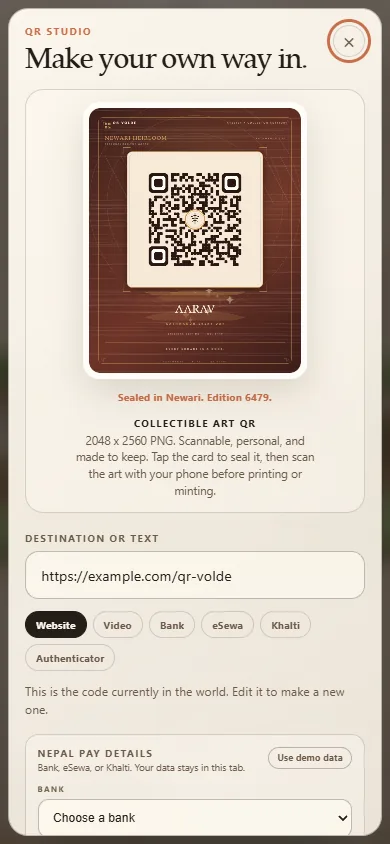
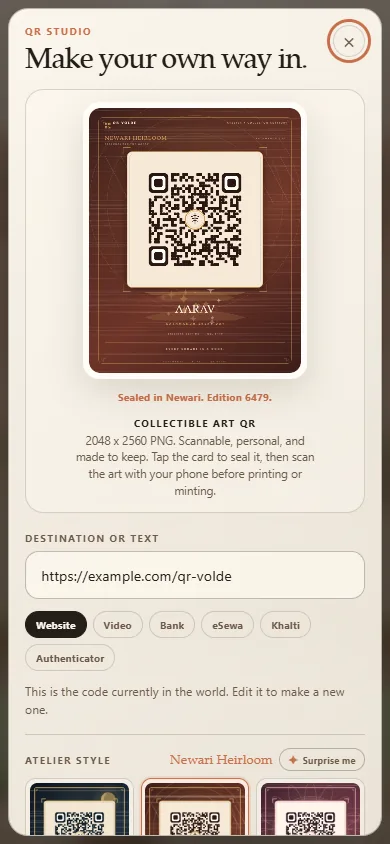
v0.5.2: Payment details on demand

diff --git a/world.js b/world.js
@@ -157,6 +157,7 @@ const qrStageHint = document.getElementById('qr-stage-hint');
 const qrShuffleButton = document.getElementById('qr-shuffle');
 const payBankFields = document.getElementById('nepal-pay-bank');
 const payWalletFields = document.getElementById('nepal-pay-wallet');
+const paySection = document.querySelector('.studio__pay');
 const payBankCode = document.getElementById('nepal-bank-code');
 const payAccountNumber = document.getElementById('nepal-account-number');
 const payAccountName = document.getElementById('nepal-account-name');
@@ -466,13 +467,18 @@ function shuffleArt() {
 }
 
 function setPresetState(value, presetId = null) {
+  let activePreset = null;
   for (const button of presetButtons) {
     const preset = PRESETS[button.dataset.preset];
     const active = presetId
       ? button.dataset.preset === presetId
       : preset?.value === value;
+    if (active) activePreset = button.dataset.preset;
     button.classList.toggle('is-active', active);
     button.setAttribute('aria-pressed', String(active));
+  }
+  if (paySection) {
+    paySection.hidden = !['bank', 'esewa', 'khalti'].includes(activePreset);
   }
 }
 

diff --git a/index.html b/index.html
@@ -102,7 +102,7 @@
           </div>
           <p class="studio__note" id="qr-note">A demo link. Works for websites, Google Sites, and any URL.</p>
 
-          <section class="studio__pay" aria-labelledby="nepal-pay-label">
+          <section class="studio__pay" aria-labelledby="nepal-pay-label" hidden>
             <div class="studio__pay-head">
               <div>
                 <span class="studio__label" id="nepal-pay-label">Nepal Pay details</span>

diff --git a/styles.css b/styles.css
@@ -896,6 +896,10 @@ body.no-webgl .qv__progress {
   background: color-mix(in srgb, var(--qv-panel-strong) 38%, transparent);
 }
 
+.studio__pay[hidden] {
+  display: none;
+}
+
 .studio__pay-head {
   display: flex;
   align-items: flex-start;

diff --git a/README.md b/README.md
@@ -2,7 +2,7 @@
 
 **A giant 3D QR code that unfolds into a living Nepalese courtyard.**
 
-[Live demo](https://harmless-beep.github.io/qr-volde/) · [Release v0.5.1](https://github.com/harmless-beep/qr-volde/releases/tag/v0.5.1) · [Research notes](./RESEARCH.md) · [Changelog](./CHANGELOG.md)
+[Live demo](https://harmless-beep.github.io/qr-volde/) · [Release v0.5.2](https://github.com/harmless-beep/qr-volde/releases/tag/v0.5.2) · [Research notes](./RESEARCH.md) · [Changelog](./CHANGELOG.md)
 
 [![QR Volde launch film — animated preview](launch-film/launch-film.gif)](https://harmless-beep.github.io/qr-volde/launch.html)
 
@@ -12,7 +12,7 @@ QR Volde is a scroll-driven 3D web experience. A dark-square QR monolith faces y
 
 The 3D code is the artwork. **QR Studio** turns the flat code into a collectible, scan-tested art card, or a plain fallback QR when a printer needs the simplest possible mark. The **Nepal Pay** builder creates clearly labelled demo codes for a bank account, eSewa, or Khalti from details you type in yourself.
 
-**Status:** v0.5.1 Atlas in reach, published 2026-11-07.  
+**Status:** v0.5.2 Payment details on demand, published 2026-11-07.  
 **Built with:** Three.js r186 · `qrcode-generator` 2.0.4 · vanilla ES modules · Canvas 2D · GitHub Pages.  
 **No build step, no backend, no analytics, no paid APIs.**
 
@@ -55,8 +55,8 @@ The film loops above. It is made from real captures of the scroll experience and
 
 | The Studio | QR Studio |
 |:--:|:--:|
-| ![The final city view with the Create your QR call to action](docs/screenshots/studio-desktop.webp) | ![The QR Studio dialog with six QR mechanisms, the Nepal Pay details, a collectible art QR preview, and seven Atelier style samples](docs/screenshots/qr-studio.webp) |
-| *Make your own way in.* | *The flat code becomes a collectible object. Six mechanisms sit above the Nepal Pay details and Atelier styles.* |
+| ![The final city view with the Create your QR call to action](docs/screenshots/studio-desktop.webp) | ![The QR Studio dialog with six QR mechanisms, a collectible art QR preview, and seven Atelier style samples](docs/screenshots/qr-studio.webp) |
+| *Make your own way in.* | *The flat code becomes a collectible object. Payment details appear only when Bank, eSewa, or Khalti is active.* |
 
 ### Living Atelier preview
 
@@ -151,7 +151,7 @@ Scroll progress is weighted by scene, so the QR reveal and the city reveal each 
 - **Download art PNG** exports a **2048 x 2560** collectible card with a gallery plinth, deterministic edition number, and a four-module quiet zone.
 - **Download plain QR fallback** exports a **1024 x 1024** high-contrast code.
 - **Use in world** updates the 3D matrix and the QR ground pattern.
-- **Nepal Pay details**: Bank, eSewa, and Khalti mechanisms, a grouped bank list, account or wallet fields, a live payload-length counter, and a demo-data button. See [Nepal Pay](#nepal-pay).
+- **Nepal Pay details** (shown only when **Bank**, **eSewa**, or **Khalti** is active): a grouped bank list, account or wallet fields, a live payload-length counter, and a demo-data button. See [Nepal Pay](#nepal-pay).
 - Error correction: **H (30%)**. The same matrix drives the 3D wall, the ground texture, the art card, and the plain fallback.
 - UTF-8 / Devanagari input supported.
 - Maximum input: 160 characters, so the 3D code stays readable.
@@ -170,6 +170,7 @@ The Studio includes a small **Nepal Pay** builder for personal bank and wallet c
 | **Khalti** | `{"Khalti_ID":"10 digits","name":"NAME"}` | 10-digit mobile number, wallet name |
 
 - The bank list is grouped into **commercial** and **development** banks. Codes are reference data for the demo; confirm the exact code with your bank before printing.
+- The details panel is only shown while **Bank**, **eSewa**, or **Khalti** is active. **Website**, **Video**, and **Authenticator** keep it hidden.
 - The counter shows the live payload length. All demo payloads fit comfortably under the **160-character** Studio limit: bank 84, eSewa 44, Khalti 45.
 - **Use demo data** fills a clearly fake account and name, then builds the code. No real account, phone number, or merchant payload is bundled.
 - When a Nepal Pay payload is reopened in the Studio, the matching mechanism button activates and its fields are restored.
@@ -301,7 +302,7 @@ Opening `index.html` directly with `file://` will not work because the app uses 
 - Mithila mode: `chowk` and `chowk-road` hide while `mithila` shows its 35 scene groups, switching back restores the chowk, the mode survives reload, and section-3 copy and rail label reset when another mode is chosen.
 - Mithila Festival props: the toran plaque renders **स्वागतम्**, the peacock, dancers, crops, and parakeets animate, and reduced motion leaves all five props in their build poses. The paddy sits on the front-left grass, clear of the QR plaza and the front steps.
 - Nepal mode: the atlas plate and six landmarks render at 1440, 390, and 320 widths; the plate sits over the QR plaza's far edge and the landmarks are visible by section 2; `chowk`, `chowk-road`, and `mithila` hide while `nepal` shows; switching among all five modes restores the right group each time; section-2 and section-3 copy and the rail label follow the mode. No console errors.
-- Nepal Pay: 22 banks in two optgroups plus a placeholder; the mechanism row exposes **Bank**, **eSewa**, and **Khalti** with `aria-pressed`; selecting one focuses the matching field without changing the current QR; demo payloads build as bank 84, eSewa 44, and Khalti 45 characters; an invalid wallet number shows an inline error; **Use in world** updates the QR; reopening Studio activates the matching mechanism and restores its fields; only `qrvolde-mode` and `qrvolde-art` are stored.
+- Nepal Pay: 22 banks in two optgroups plus a placeholder; the mechanism row exposes **Bank**, **eSewa**, and **Khalti** with `aria-pressed`; selecting one focuses the matching field without changing the current QR; the payment details are hidden for Website, Video, and Authenticator and shown for payment mechanisms; demo payloads build as bank 84, eSewa 44, and Khalti 45 characters; an invalid wallet number shows an inline error; **Use in world** updates the QR; reopening Studio activates the matching mechanism and restores its fields; only `qrvolde-mode` and `qrvolde-art` are stored.
 - Interaction QA: pointer dust and glow render outside the QR panel, the QR exclusion rectangle contains **zero overlay pixels**, tilt resets on pointer leave, keyboard **Enter** and **Space** both seal, touch tap seals, the hint cycles, and **Surprise me** kept Custom active 23 of 36 tries while producing 13 distinct palette/motif combinations.
 - The export canvas was byte-for-byte identical before and after pointer movement and sealing.
 - All six sample styles plus custom variants decoded with jsQR at **2048 x 2560** and **640 x 800**; the plain **1024 x 1024** fallback also decoded.
@@ -346,6 +347,7 @@ GitHub Pages serves the repository root from the `main` branch.
 - **v0.4.2** — Mithila Festival: toran gateway, displaying peacock, jhijhiya dancers, paddy field, and parakeet flock. **Published.**
 - **v0.5.0** — Nepal Atlas: raised map plate, six landmark vignettes, a third camera flight, and the Bank/eSewa/Khalti Nepal Pay builder. **Published.**
 - **v0.5.1** — Atlas in reach: the Nepal plate moves over the QR's far edge, the camera moves closer and lower, and Bank, eSewa, and Khalti become top-level QR mechanisms. **Published.**
+- **v0.5.2** — Payment details on demand: Nepal Pay details appear only for Bank, eSewa, and Khalti. **Published.**
 - **v0.6** — Districts: more switchable neighbourhoods, landmarks, and cultural layers.
 - **v0.7** — Launch: final brand copy, CTA destination, verified payment guidance.
 - **v1.0** — Stable release.

diff --git a/RESEARCH.md b/RESEARCH.md
@@ -1,10 +1,10 @@
 # Research Notes
 
 **Project:** QR Volde  
-**Version:** v0.5.1  
+**Version:** v0.5.2  
 **Research date:** 2026-10-27; updated 2026-11-07
 
-This document records the references and decisions behind the v0.1 vertical slice, the v0.2 QR Atelier, the v0.3 Living Atelier, the v0.4 Mithila Courtyard, the v0.4.2 Mithila Festival, the v0.5.0 Nepal Atlas, and the v0.5.1 Atlas in reach update with its top-level Bank, eSewa, and Khalti mechanisms. The goal is recognition, not reconstruction. All geometry, textures, signs, characters, and Atelier motifs are original procedural work; no photos, maps, stock models, third-party visual assets, or AI-generated images were copied into the project.
+This document records the references and decisions behind the v0.1 vertical slice, the v0.2 QR Atelier, the v0.3 Living Atelier, the v0.4 Mithila Courtyard, the v0.4.2 Mithila Festival, the v0.5.0 Nepal Atlas, the v0.5.1 Atlas in reach update, and the v0.5.2 conditional Nepal Pay panel. The goal is recognition, not reconstruction. All geometry, textures, signs, characters, and Atelier motifs are original procedural work; no photos, maps, stock models, third-party visual assets, or AI-generated images were copied into the project.
 
 ## 1. Kathmandu Valley and Newar architecture
 
@@ -68,6 +68,7 @@ This document records the references and decisions behind the v0.1 vertical slic
 
 - No real bank, merchant, or wallet payload is bundled or shown as a preset.
 - The v0.5.1 Studio exposes **Bank**, **eSewa**, and **Khalti** as top-level mechanisms beside Website, Video, and Authenticator. Selecting one focuses the matching details and leaves the current QR untouched until **Build payment code** is pressed.
+- v0.5.2 shows the Nepal Pay details only while a payment mechanism is active. Website, Video, and Authenticator hide the panel entirely.
 - v0.5 adds a **Nepal Pay** builder for personal Bank, eSewa, and Khalti codes. It uses only details the user types in, labels the result as a demo, and points to section 9 for the payload mechanism and limits.
 - The Nepal Pay JSON is **not** the NRB/EMVCo merchant QR standard; users must test their own code in the official app before printing.
 - The scene does not imply that scanning the artwork pays anyone.
@@ -104,7 +105,7 @@ This document records the references and decisions behind the v0.1 vertical slic
 - Keep touch targets at least 2rem where practical; rail controls use larger transparent hit areas.
 - Provide `aria-pressed` on visual mode buttons and `aria-current` on scene rail buttons.
 - Wrap the scroll hint in a complementary landmark so all base-page content sits inside a landmark.
-- Lighthouse v0.4.0: 100 accessibility, 100 best practices, 100 SEO. Axe-core reported no violations with QR Studio open at desktop and mobile widths, including Mithila and Nepal modes. The v0.4.2 Mithila Festival, v0.5.0 Nepal, and v0.5.1 mechanism-row QA re-ran Axe-core with the same result.
+- Lighthouse v0.4.0: 100 accessibility, 100 best practices, 100 SEO. Axe-core reported no violations with QR Studio open at desktop and mobile widths, including Mithila and Nepal modes. The v0.4.2 Mithila Festival, v0.5.0 Nepal, v0.5.1 mechanism-row, and v0.5.2 conditional-panel QA re-ran Axe-core with the same result.
 
 ## 6. QR Atelier art and scannability
 
@@ -269,6 +270,7 @@ The reference site builds simple JSON strings for personal payment codes. Only t
 
 - **A fifth mode, not a Mithila variant.** Nepal has its own scene group, its own atlas plate, six landmarks, palette, and camera rig. Folding it into Mithila would have mixed two different regions and weakened both.
 - **The QR stays dominant.** The plate sits over the plaza's far edge; the camera moves closer and lower instead of cropping the code, with a portrait pullback so both the plate and the QR plaza fit. The 3D QR remains artwork, not a scanning target.
+- **Payment details stay contextual.** The Nepal Pay panel is hidden unless a payment mechanism is active, so Website, Video, and Authenticator keep the Studio focused on the QR itself.
 - **Symbolic landmarks, not replicas.** Each vignette is a small composition built from primitives. The project does not claim architectural accuracy, and no external models, photos, or map tiles are used.
 - **No per-feature labels on the map.** The vignettes and the front cartouche carry the names; the scene copy lists all six feats. This keeps the plate readable at desktop and mobile sizes.
 - **Simple JSON is labelled as a demo.** The payload shape is not the NRB/EMVCo merchant standard used by Fonepay, NepalQR, or bank terminals. The Studio says so and asks users to test with the official app before printing.
@@ -280,6 +282,7 @@ The reference site builds simple JSON strings for personal payment codes. Only t
 - `npm run check` passes with `city-nepal.js` and `nepal-pay.js` included.
 - v0.5.1 desktop QA at 1440 x 1100: the atlas plate sits over the QR plaza's far edge and the six landmarks are visible by section 2; the QR stays dominant; no console errors or horizontal overflow.
 - v0.5.1 Studio QA: six mechanism buttons; **Bank**, **eSewa**, and **Khalti** focus the matching fields, keep the current QR until **Build payment code**, and reopen with the correct mechanism active and `aria-pressed` set.
+- v0.5.2 panel QA: **Website**, **Video**, and **Authenticator** hide the Nepal Pay details; **Bank**, **eSewa**, and **Khalti** show it; building a demo keeps it visible; reopening a payment payload restores it; switching back to Website hides it again.
 - v0.5.1 mobile QA at 390 x 844 and 320 x 568: no horizontal overflow, the six mechanisms wrap to two rows, Studio opens at the top with the close button focused, and the Nepal plate and QR remain visible above the copy card.
 - Mode-switch QA across all five modes: the correct scene group shows, switching back restores the chowk, and only `qrvolde-mode` is stored.
 - Reduced motion: 172 visible Nepal meshes at 0.86, no errors, static plate and landmarks.

diff --git a/CHANGELOG.md b/CHANGELOG.md
@@ -2,6 +2,24 @@
 
 All notable changes to QR Volde are recorded here.
 
+## [0.5.2] — 2026-11-07
+
+**Payment details on demand.** The Nepal Pay details panel now appears only when Bank, eSewa, or Khalti is selected. Website, Video, and Authenticator keep the Studio focused on the QR mechanism without the payment form.
+
+### Changed
+
+- The Nepal Pay details section is hidden for **Website**, **Video**, and **Authenticator**, and shown for **Bank**, **eSewa**, and **Khalti**.
+- The panel also stays hidden when the current QR is an ordinary link and no payment mechanism is active. Reopening a payment payload restores it with the matching mechanism.
+- Refreshed the QR Studio and mobile Atelier screenshots for the conditional panel.
+- Version bumped to 0.5.2.
+
+### QA
+
+- `npm run check` passes.
+- Mechanism QA: Website, Video, and Authenticator hide the payment details; Bank, eSewa, and Khalti show it; building a demo keeps it visible; reopening a payment payload restores it; switching back to Website hides it again.
+- No console errors or horizontal overflow at 1440 x 1100, 390 x 844, and 320 x 568.
+- Axe-core: no violations with QR Studio open at desktop and mobile widths.
+
 ## [0.5.1] — 2026-11-07
 
 **Atlas in reach.** The Nepal atlas now sits over the QR plaza instead of far behind it, and Bank, eSewa, and Khalti are first-class QR mechanisms in the Studio rather than options nested under a generic payment demo.

diff --git a/THIRD_PARTY_NOTICES.md b/THIRD_PARTY_NOTICES.md
@@ -1,6 +1,6 @@
 # Third-Party Notices
 
-QR Volde v0.5.1 includes the following third-party software. The original QR Volde code, procedural art, QR Atelier motifs, Mithila courtyard art, and Nepal atlas art are separate from these components. v0.5.1 adds no new runtime dependencies.
+QR Volde v0.5.2 includes the following third-party software. The original QR Volde code, procedural art, QR Atelier motifs, Mithila courtyard art, and Nepal atlas art are separate from these components. v0.5.2 adds no new runtime dependencies.
 
 ## Three.js r186
 
